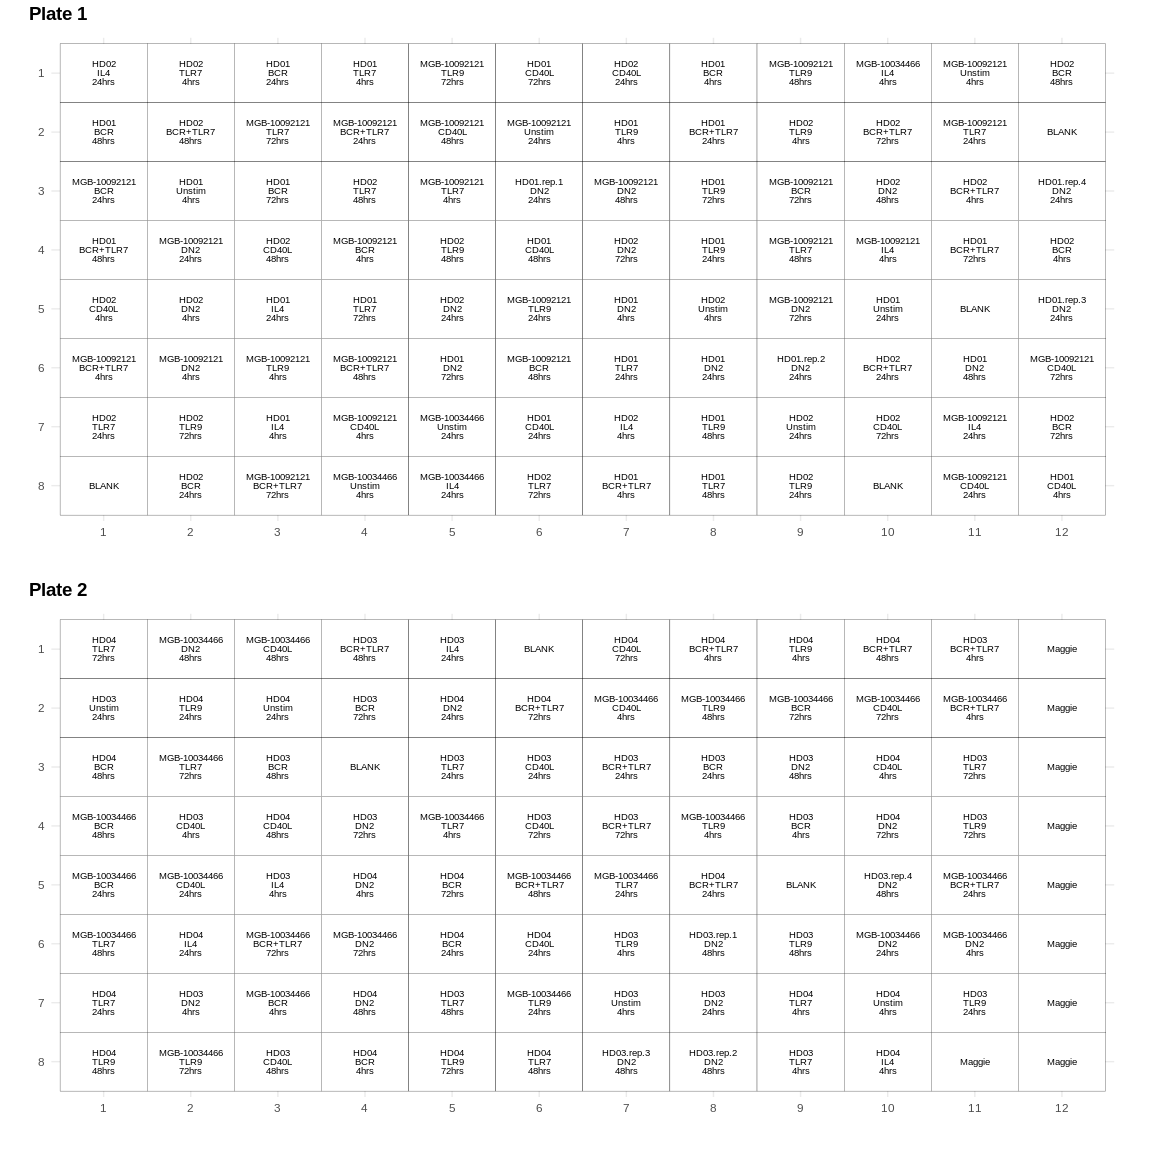
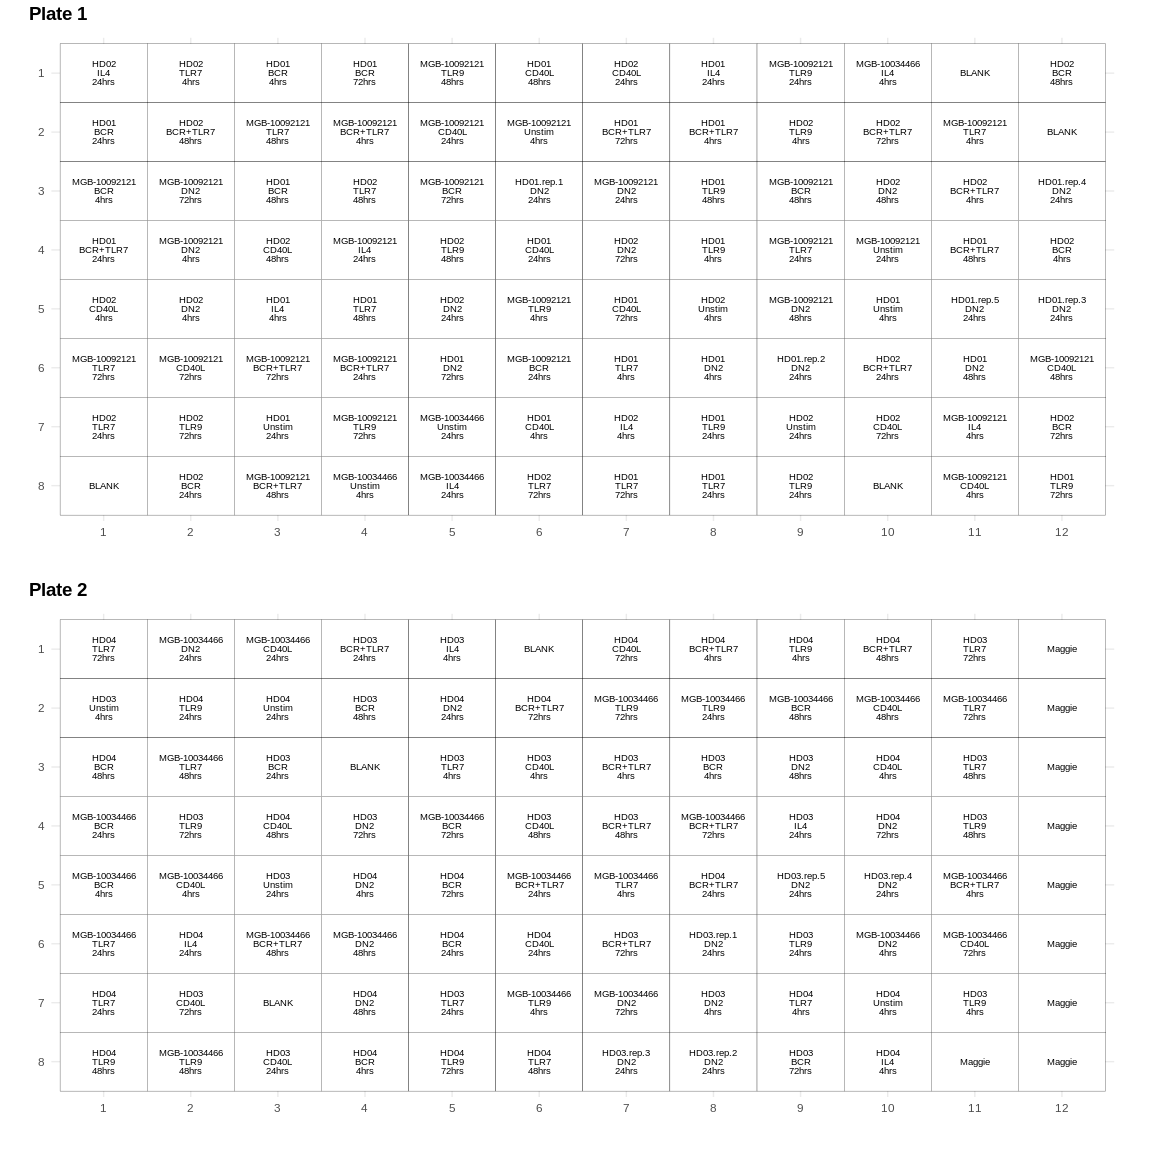
update plate layout

diff --git a/bcell_lowinput/plan_low_input.md b/bcell_lowinput/plan_low_input.md
@@ -31,16 +31,21 @@ Data frame with the experimental design
     # Replicates
     ## put all reps for HD01 in plate #1
     ## put all reps for HD03 in plate #2
-    n_reps <- 4
+    n_reps <- 5
 
     reps_df <- 
         bind_rows(filter(expr_df, ind_id == "HD01", timeps == "24hrs", stims == "DN2") %>%
                       .[rep(seq_len(nrow(.)), each = n_reps), ] %>%
                       mutate(plate = "plate1", index = 1:n_reps),
-                  filter(expr_df, ind_id == "HD03", timeps == "48hrs", stims == "DN2") %>%
+                  filter(expr_df, ind_id == "HD03", timeps == "24hrs", stims == "DN2") %>%
                       .[rep(seq_len(nrow(.)), each = n_reps), ] %>%
                       mutate(plate = "plate2", index = 1:n_reps)) %>%
         mutate(ind_id = paste0(ind_id, ".rep.", index))
+
+    # remove the individuals from the original dataset to avoid redundancy 
+    expr_upd_df <- expr_df %>%
+        filter(!((ind_id == "HD01" | ind_id == "HD03") & timeps == "24hrs" & stims == "DN2"))
+
 
     # Reserve 9 wells for Maggie on plate #2
     maggie_df <- 
@@ -49,7 +54,7 @@ Data frame with the experimental design
         mutate(plate = "plate2", index = 88:96)
 
     # Add blank wells evenly between plates
-    blanks_n <- (8 * 12 * 2) - (nrow(expr_df) + nrow(reps_df) + nrow(maggie_df))
+    blanks_n <- (8 * 12 * 2) - (nrow(expr_upd_df) + nrow(reps_df) + nrow(maggie_df))
 
     blanks_df <- 
         tibble(ind_id = rep("blank", blanks_n),
@@ -63,7 +68,7 @@ Data frame with the experimental design
     # Put everything together
     temp_df <- bind_rows(reps_df, blanks_df, maggie_df) %>%
         anti_join(design_df, ., by = c("index", "plate")) %>%
-        bind_cols(expr_df) %>%
+        bind_cols(expr_upd_df) %>%
         bind_rows(reps_df, blanks_df, maggie_df) %>%
         arrange(plate, index)
         
@@ -85,11 +90,11 @@ Data frame with the experimental design
        ind_id       stims    timeps plate  index
        <chr>        <chr>    <chr>  <chr>  <int>
      1 HD02         IL4      24hrs  plate1     1
-     2 HD01         BCR      48hrs  plate1     2
-     3 MGB-10092121 BCR      24hrs  plate1     3
-     4 HD01         BCR+TLR7 48hrs  plate1     4
+     2 HD01         BCR      24hrs  plate1     2
+     3 MGB-10092121 BCR      4hrs   plate1     3
+     4 HD01         BCR+TLR7 24hrs  plate1     4
      5 HD02         CD40L    4hrs   plate1     5
-     6 MGB-10092121 BCR+TLR7 4hrs   plate1     6
+     6 MGB-10092121 TLR7     72hrs  plate1     6
      7 HD02         TLR7     24hrs  plate1     7
      8 blank        blank    blank  plate1     8
      9 HD02         TLR7     4hrs   plate1     9
